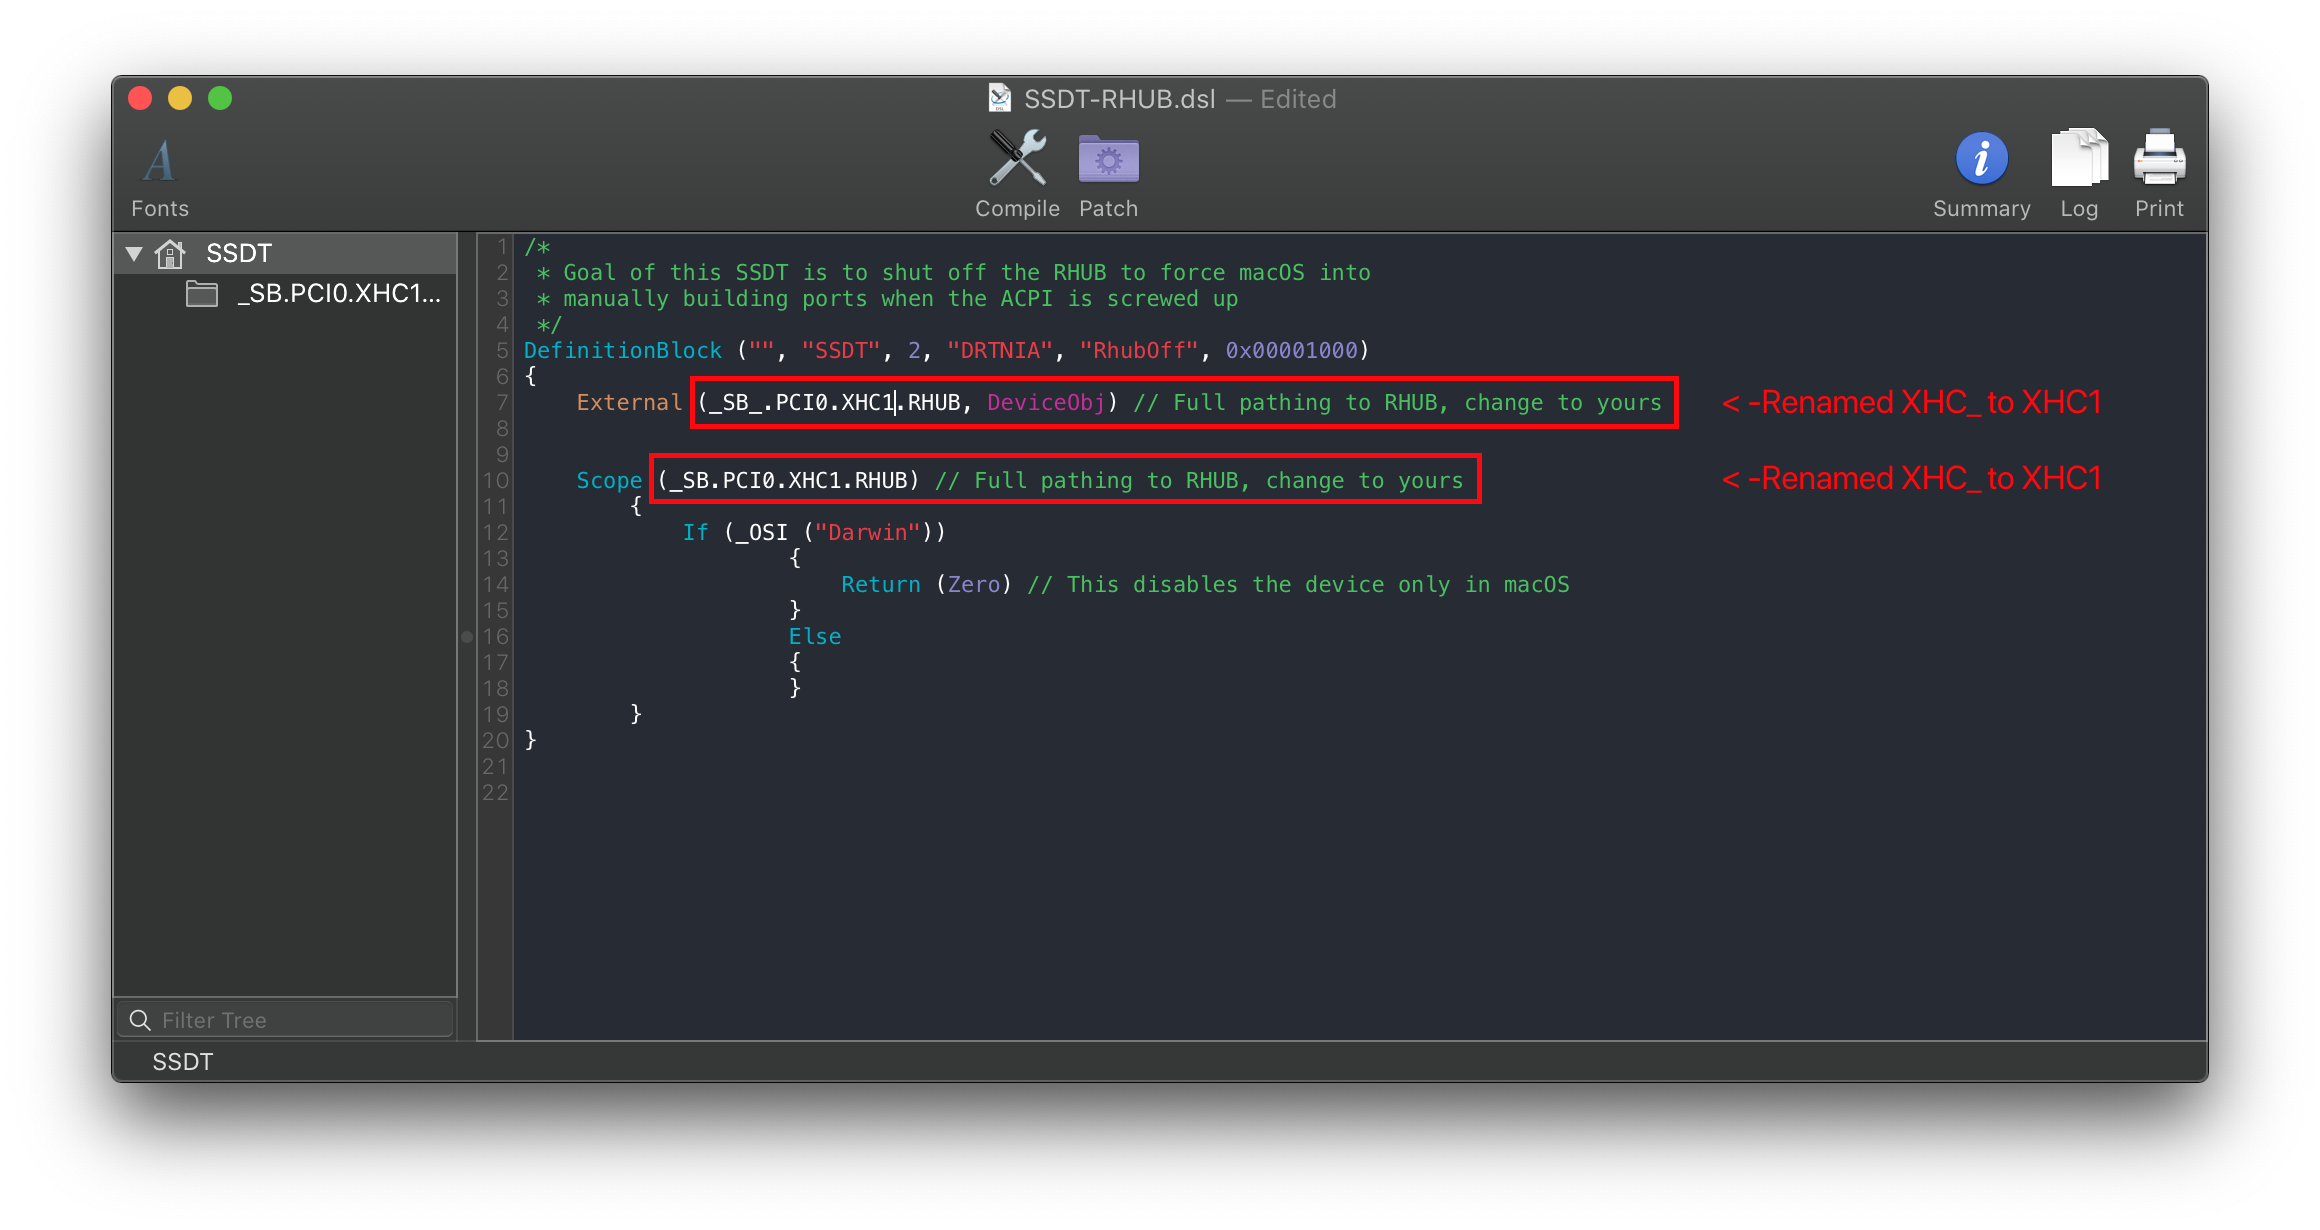
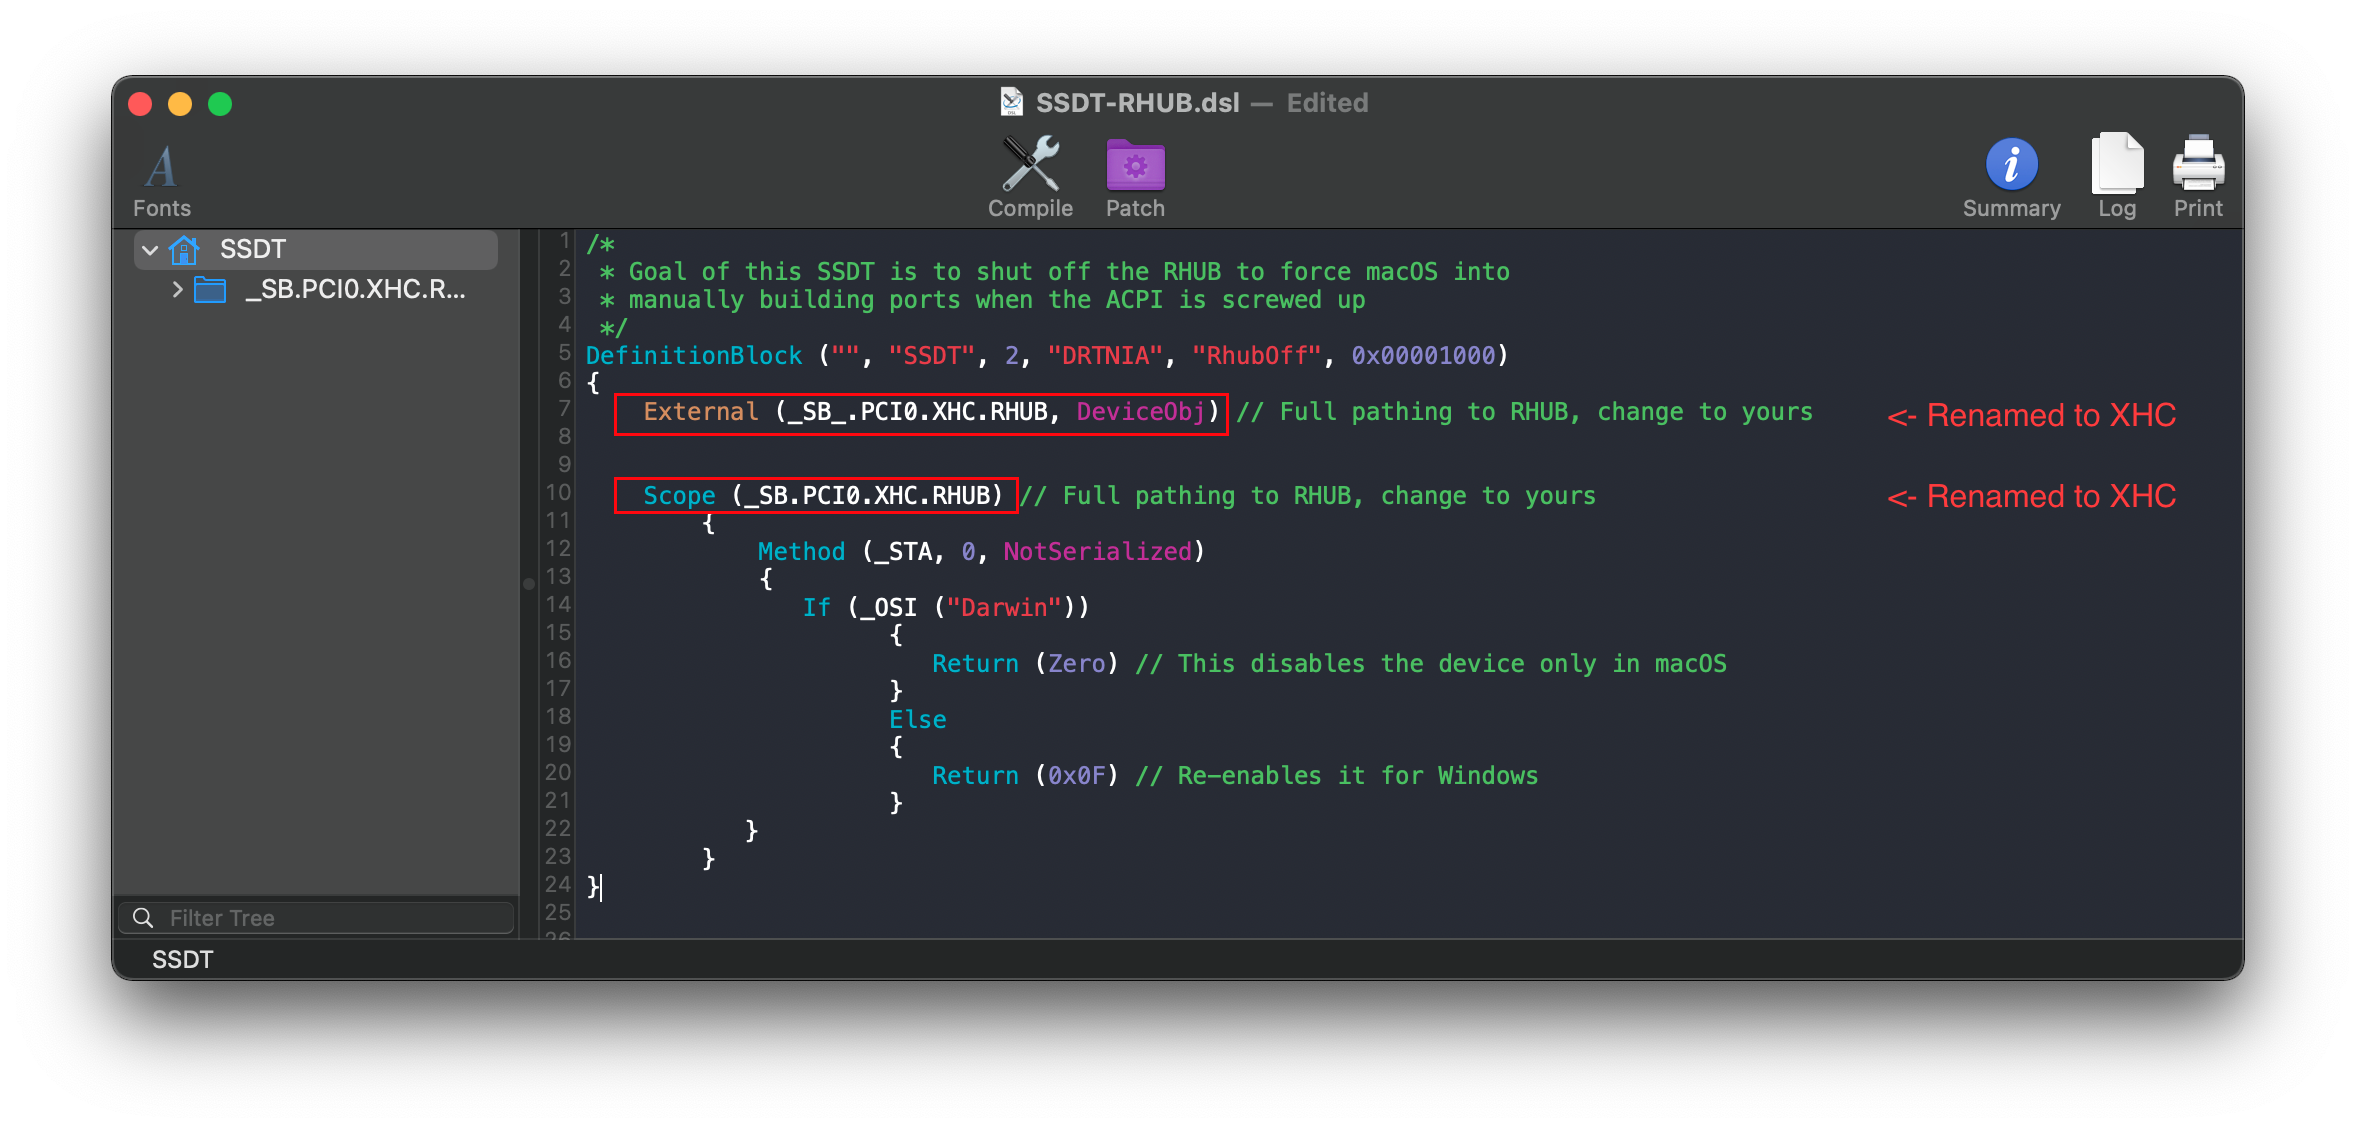
Fix inconsistencies with RHUB
Closes https://github.com/dortania/bugtracker/issues/101

diff --git a/.vuepress/config.js b/.vuepress/config.js
@@ -228,6 +228,7 @@ module.exports = {
 		            sidebarDepth: 2,
 		            children: [
 		                ['/Universal/rhub-methods/prebuilt', 'Prebuilt'],
+						['/Universal/rhub-methods/ssdttime', 'SSDTTime'],
 		                ['/Universal/rhub-methods/manual', 'Manual'],
 		            ]
 		        },

diff --git a/Universal/rhub-methods/manual.md b/Universal/rhub-methods/manual.md
@@ -30,16 +30,16 @@ Now that we have our ACPI path, lets grab our SSDT and get to work:
 
 * [SSDT-RHUB.dsl](https://github.com/dortania/Getting-Started-With-ACPI/blob/master/extra-files/decompiled/SSDT-RHUB.dsl)
 
-By default, this uses `PCI0.XHC_.RHUB` for the pathing. you'll want to rename accordingly.
+By default, this uses `PCI0.XHC1.RHUB` for the pathing. you'll want to rename accordingly.
 
-Following the example from above, we'll be renaming it to `PCI0.XHC1.RHUB`:
+Following the example from above, we'll be renaming it to `PCI0.XHC.RHUB`:
 
 **Before**:
 
 ```
-External (_SB_.PCI0.XHC_.RHUB, DeviceObj) <- Rename this
+External (_SB_.PCI0.XHC1.RHUB, DeviceObj) <- Rename this
 
-Scope (_SB.PCI0.XHC_.RHUB) <- Rename this
+Scope (_SB.PCI0.XHC1.RHUB) <- Rename this
 ```
 
 ![](../../images/Universal/rhub-md/ssdt-before.png)
@@ -49,9 +49,9 @@ Following the example pathing we found, the SSDT should look something like this
 **After**:
 
 ```
-External (_SB.PCI0.XHC1.RHUB, DeviceObj) <- Renamed
+External (_SB.PCI0.XHC.RHUB, DeviceObj) <- Renamed
 
-Scope (_SB.PCI0.XHC1.RHUB) <- Renamed
+Scope (_SB.PCI0.XHC.RHUB) <- Renamed
 ```
 
 ![](../../images/Universal/rhub-md/ssdt-after.png)
